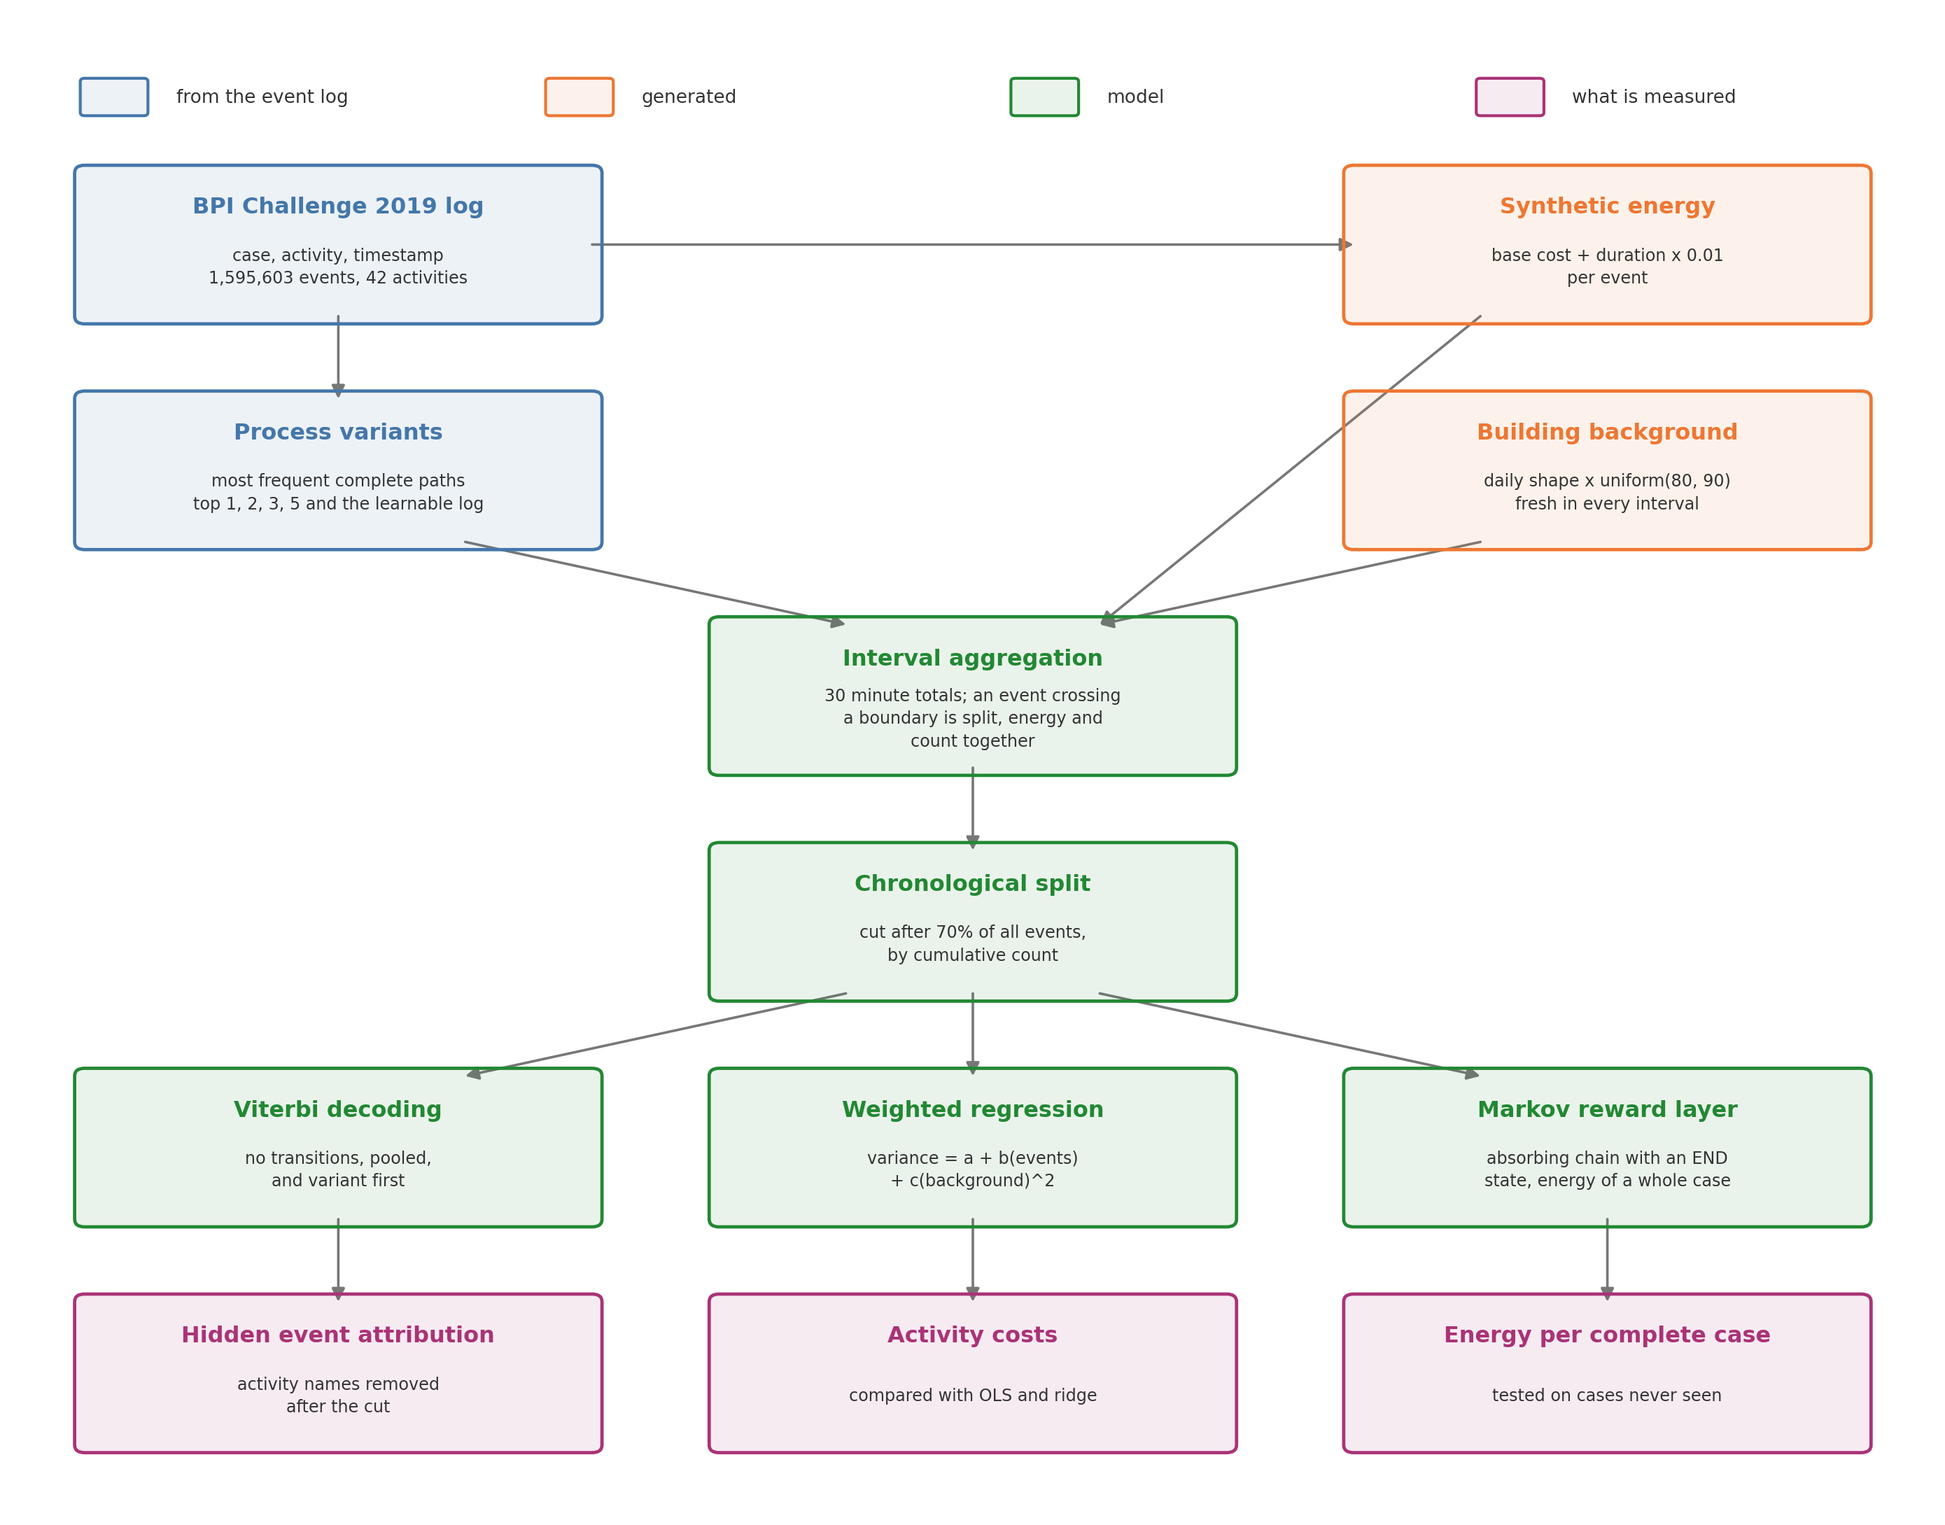
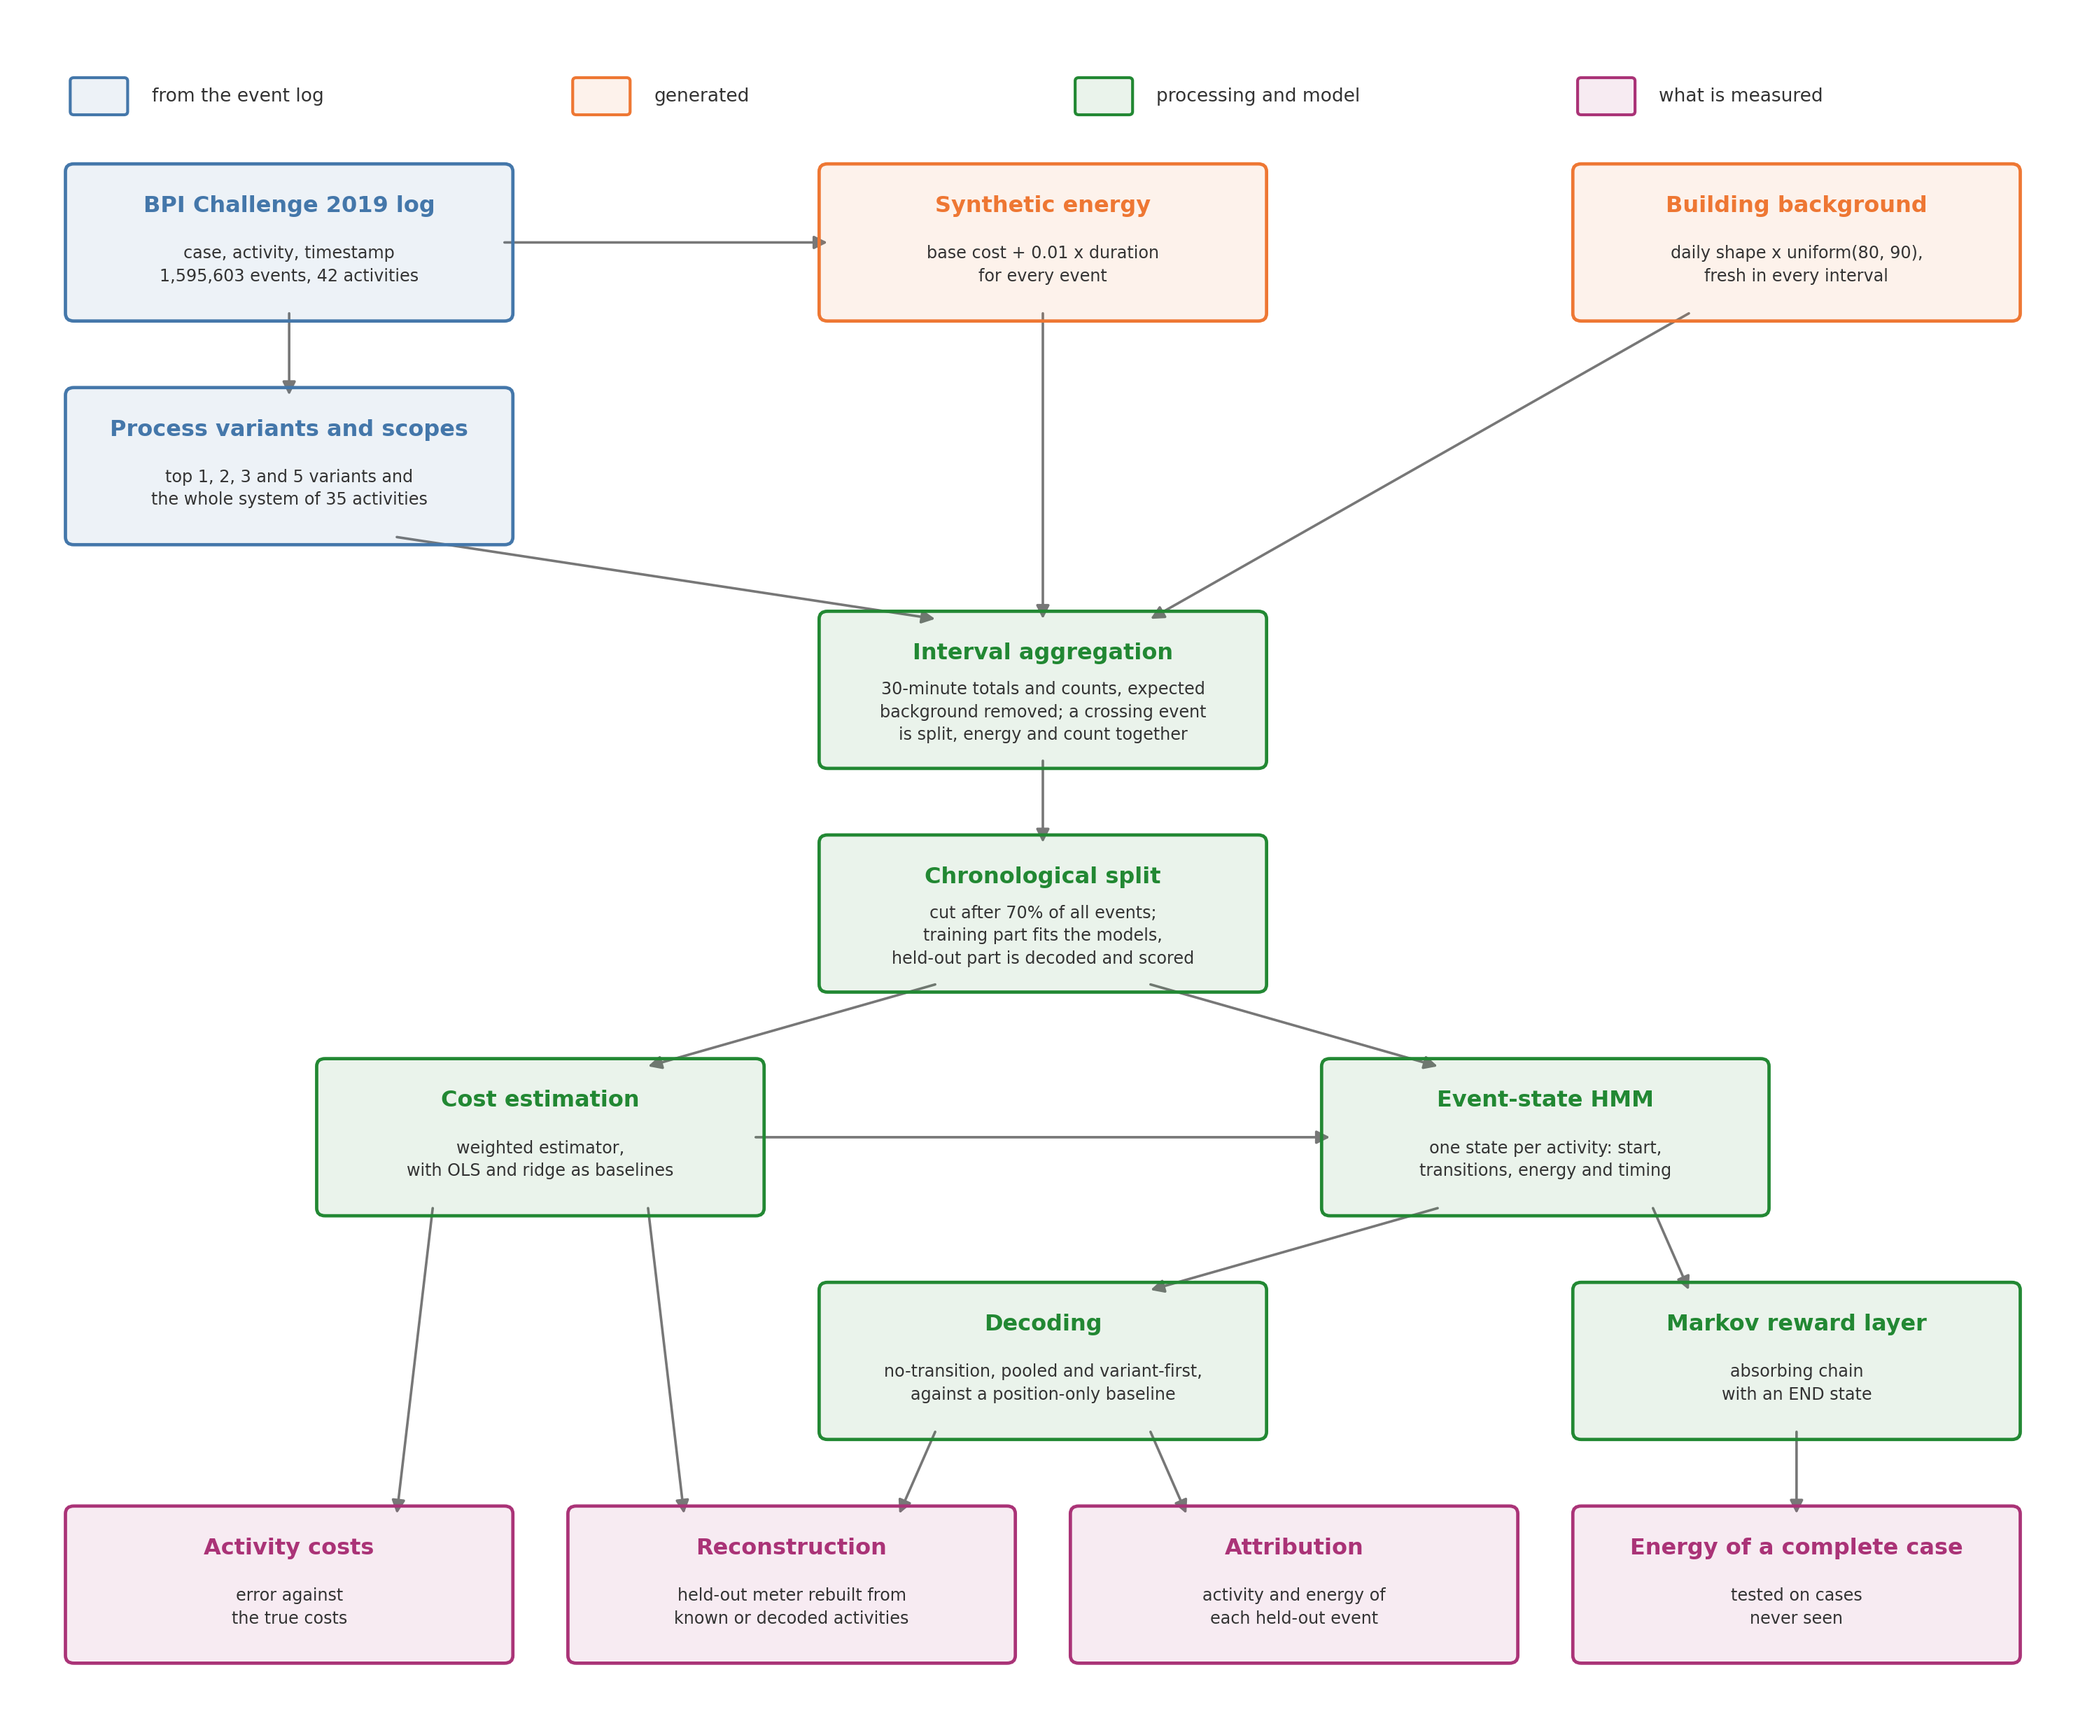
Redraw the pipeline with the event-state HMM and all four measured outputs

diff --git a/final_model/plot_pipeline.py b/final_model/plot_pipeline.py
@@ -3,8 +3,10 @@ plot_pipeline.py
 ────────────────
 The pipeline figure for the start of the methodology chapter.
 
-Drawn from code rather than by hand so it cannot drift away from what the
-scripts actually do. Every box names the file that performs that step.
+Drawn from code rather than by hand so it cannot drift away from the steps the
+scripts actually take. The bottom row holds the four things that are measured:
+the activity costs, the reconstruction of the held-out meter, the attribution of
+hidden events, and the energy of a complete case.
 
 Output
 ──────
@@ -28,24 +30,37 @@ REAL, MADE, MODEL, OUT = "#4477AA", "#EE7733", "#228833", "#AA3377"
 
 # title, subtitle, column, row, colour
 BOXES = [
-    ("BPI Challenge 2019 log", "case, activity, timestamp\n1,595,603 events, 42 activities", 0, 5, REAL),
-    ("Synthetic energy", "base cost + duration x 0.01\nper event", 2, 5, MADE),
-    ("Process variants", "most frequent complete paths\ntop 1, 2, 3, 5 and the learnable log", 0, 4, REAL),
-    ("Building background", "daily shape x uniform(80, 90)\nfresh in every interval", 2, 4, MADE),
-    ("Interval aggregation", "30 minute totals; an event crossing\na boundary is split, energy and\ncount together", 1, 3, MODEL),
-    ("Chronological split", "cut after 70% of all events,\nby cumulative count", 1, 2, MODEL),
-    ("Viterbi decoding", "no transitions, pooled,\nand variant first", 0, 1, MODEL),
-    ("Weighted regression", "variance = a + b(events)\n+ c(background)^2", 1, 1, MODEL),
-    ("Markov reward layer", "absorbing chain with an END\nstate, energy of a whole case", 2, 1, MODEL),
-    ("Hidden event attribution", "activity names removed\nafter the cut", 0, 0, OUT),
-    ("Activity costs", "compared with OLS and ridge", 1, 0, OUT),
-    ("Energy per complete case", "tested on cases never seen", 2, 0, OUT),
+    ("BPI Challenge 2019 log", "case, activity, timestamp\n1,595,603 events, 42 activities", 0, 6, REAL),
+    ("Synthetic energy", "base cost + 0.01 x duration\nfor every event", 1.5, 6, MADE),
+    ("Building background", "daily shape x uniform(80, 90),\nfresh in every interval", 3, 6, MADE),
+    ("Process variants and scopes", "top 1, 2, 3 and 5 variants and\nthe whole system of 35 activities", 0, 5, REAL),
+    ("Interval aggregation", "30-minute totals and counts, expected\nbackground removed; a crossing event\nis split, energy and count together", 1.5, 4, MODEL),
+    ("Chronological split", "cut after 70% of all events;\ntraining part fits the models,\nheld-out part is decoded and scored", 1.5, 3, MODEL),
+    ("Cost estimation", "weighted estimator,\nwith OLS and ridge as baselines", 0.5, 2, MODEL),
+    ("Event-state HMM", "one state per activity: start,\ntransitions, energy and timing", 2.5, 2, MODEL),
+    ("Decoding", "no-transition, pooled and variant-first,\nagainst a position-only baseline", 1.5, 1, MODEL),
+    ("Markov reward layer", "absorbing chain\nwith an END state", 3, 1, MODEL),
+    ("Activity costs", "error against\nthe true costs", 0, 0, OUT),
+    ("Reconstruction", "held-out meter rebuilt from\nknown or decoded activities", 1, 0, OUT),
+    ("Attribution", "activity and energy of\neach held-out event", 2, 0, OUT),
+    ("Energy of a complete case", "tested on cases\nnever seen", 3, 0, OUT),
 ]
 
-ARROWS = [(0, 1), (0, 2), (2, 4), (1, 4), (3, 4), (4, 5),
-          (5, 6), (5, 7), (5, 8), (6, 9), (7, 10), (8, 11)]
+# (source, target) by position in BOXES
+ARROWS = [
+    (0, 1), (0, 3),                 # log to its energy and to the scopes
+    (1, 4), (2, 4), (3, 4),         # energy, background and scope into the intervals
+    (4, 5),                         # intervals and their counts into the split
+    (5, 6), (5, 7),                 # training part into costs and the HMM
+    (6, 7),                         # costs become the energy emissions
+    (7, 8), (7, 9),                 # the HMM drives decoding and the reward layer
+    (6, 10), (6, 11),               # costs, and the meter rebuilt from known activities
+    (8, 11), (8, 12),               # the meter rebuilt from decoded activities, attribution
+    (9, 13),                        # energy of a complete case
+]
 
-WIDTH, HEIGHT, GAP_X, GAP_Y = 3.6, 1.3, 4.5, 2.05
+WIDTH, HEIGHT, GAP_X, GAP_Y = 3.6, 1.3, 4.2, 2.05
+ROWS = max(row for *_, row, _ in BOXES)
 
 
 def place(column, row):
@@ -67,7 +82,7 @@ def edges(source, target):
 
 def main():
     """Draw the pipeline figure and save it into images/."""
-    figure, axis = plt.subplots(figsize=(14, 11))
+    figure, axis = plt.subplots(figsize=(15, 12.5))
     for title, subtitle, column, row, colour in BOXES:
         x, y = place(column, row)
         axis.add_patch(FancyBboxPatch(
@@ -85,19 +100,19 @@ def main():
             start, end, arrowstyle="-|>", mutation_scale=14, zorder=2,
             linewidth=1.3, color="#777777", shrinkA=0, shrinkB=0))
 
-    top = 5 * GAP_Y + HEIGHT + 0.55
+    top = ROWS * GAP_Y + HEIGHT + 0.55
     for index, (colour, label) in enumerate([(REAL, "from the event log"),
                                              (MADE, "generated"),
-                                             (MODEL, "model"),
+                                             (MODEL, "processing and model"),
                                              (OUT, "what is measured")]):
-        x = index * 3.3
+        x = index * GAP_X
         axis.add_patch(FancyBboxPatch(
             (x, top), 0.42, 0.28, boxstyle="round,pad=0.03", linewidth=1.5,
             edgecolor=colour, facecolor=colour + "18"))
         axis.text(x + 0.65, top + 0.14, label, fontsize=9.5,
                   va="center", color="#333333")
 
-    axis.set_xlim(-0.5, 2 * GAP_X + WIDTH + 0.5)
+    axis.set_xlim(-0.5, 3 * GAP_X + WIDTH + 0.5)
     axis.set_ylim(-0.6, top + 0.9)
     axis.axis("off")
     figure.tight_layout()
